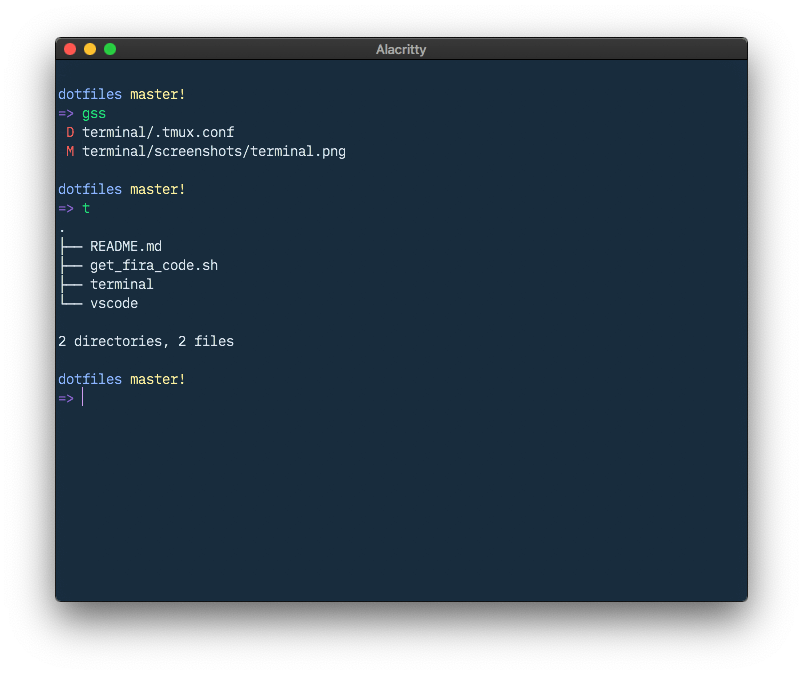
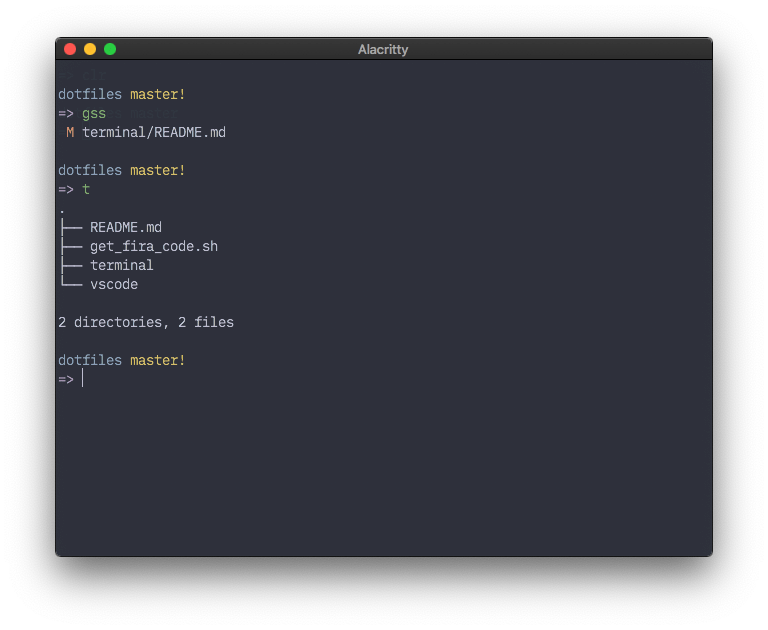
update second term shot

Changed region(s): [[0.0625, 0.0302, 0.9375, 0.9048]]

diff --git a/terminal/README.md b/terminal/README.md
@@ -101,6 +101,6 @@ curl https://raw.githubusercontent.com/akhilome/dotfiles/master/zsh/.zshrc > ~/.
 
 - ~~Terminal: Terminal.app (the default terminal which ships with all macs)~~
 - Terminal: Alacritty
-- Color Scheme for both Alacritty: [Night Owl](https://github.com/sdras/night-owl-vscode-theme)
+- Color Scheme for Alacritty: [substrata](https://github.com/arzg/vim-substrata)
 - Color Scheme for VS Code: Tokyo Night Storm
 - Font: iA Writer
